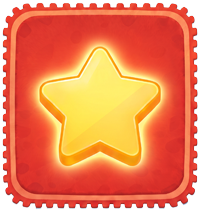
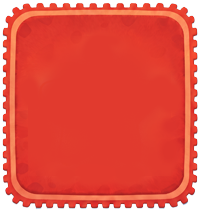
Put a decorative star on the door and wait for fly-to-HUD before the overlay.
The door uses a new sprite plus an idle star that flies into a third HUD slot on win. Result UI waits until pickup FX finishes.

diff --git a/src/game/iceGame.ts b/src/game/iceGame.ts
@@ -101,6 +101,7 @@ export function startIceGame(opts: {
   let busy = false;
   let disposed = false;
   let fxGen = 0;
+  let starFxWait: Promise<void>[] = [];
   let idleRaf = 0;
   type StarIdle = {
     root: HTMLElement;
@@ -141,6 +142,7 @@ export function startIceGame(opts: {
       <div class="ice-stars" id="ice-stars" aria-hidden="true">
         <span class="hud-star" data-i="0"></span>
         <span class="hud-star" data-i="1"></span>
+        <span class="hud-star" data-i="2"></span>
       </div>
       <button type="button" class="ice-restart" id="ice-restart">重开</button>
       <button type="button" class="ice-haptic" id="haptic-tap">震</button>
@@ -319,6 +321,7 @@ export function startIceGame(opts: {
 
   function paintStatic(s: IceState): void {
     fxGen += 1;
+    starFxWait = [];
     opts.stage.querySelectorAll('.ice-star-fly, .ice-star-burst').forEach((el) => el.remove());
     laid = layoutBoard(tune, s.rows, s.cols);
     applyTuneCss();
@@ -349,8 +352,12 @@ export function startIceGame(opts: {
     }
     {
       const p = tokenPos(laid, s.door);
+      const phase = ((s.door.r * 3 + s.door.c) % 7) / 7;
       parts.push(
         `<div class="ice-door" style="left:${p.x}px;top:${p.y}px;z-index:${stackZ(s.door.r, 3)}"></div>`,
+        `<div class="ice-star-glow" data-star-glow="door" style="left:${p.x}px;top:${p.y}px;z-index:${stackZ(s.door.r, 2)}"></div>`,
+        `<div class="ice-star ice-star-door" data-star="door" data-phase="${phase}" style="left:${p.x}px;top:${p.y}px;z-index:${stackZ(s.door.r, 3)}">` +
+          `<span class="ice-star-shadow"></span><span class="ice-star-sprite"></span></div>`,
       );
     }
     s.boxes.forEach((_, i) => {
@@ -473,13 +480,20 @@ export function startIceGame(opts: {
     }
   }
 
+  function starKey(at: Cell): string {
+    if (at.r === state.door.r && at.c === state.door.c) {
+      const onDoor = state.stars.some((s) => s.r === at.r && s.c === at.c);
+      if (!onDoor) return 'door';
+    }
+    return `${at.r}-${at.c}`;
+  }
+
   function hideStar(at: Cell): void {
-    const id = `${at.r}-${at.c}`;
-    board.querySelector(`[data-star="${id}"]`)?.classList.add('gone');
+    board.querySelector(`[data-star="${starKey(at)}"]`)?.classList.add('gone');
   }
 
   function glowEl(at: Cell): HTMLElement | null {
-    return board.querySelector(`[data-star-glow="${at.r}-${at.c}"]`) as HTMLElement | null;
+    return board.querySelector(`[data-star-glow="${starKey(at)}"]`) as HTMLElement | null;
   }
 
   function prefersReduceMotion(): boolean {
@@ -570,8 +584,8 @@ export function startIceGame(opts: {
     burstHudStar(hud);
   }
 
-  function collectStarFx(at: Cell, hudIndex: number): void {
-    const id = `${at.r}-${at.c}`;
+  function collectStarFx(at: Cell, hudIndex: number): Promise<void> {
+    const id = starKey(at);
     const star = board.querySelector(`[data-star="${id}"]`) as HTMLElement | null;
     const glow = glowEl(at);
     const glowScale0 = Number(glow?.dataset.scale) || 1;
@@ -581,7 +595,7 @@ export function startIceGame(opts: {
       hideStar(at);
       glow?.classList.add('gone');
       lightHudStar(hudIndex);
-      return;
+      return Promise.resolve();
     }
 
     const sprite = (star.querySelector('.ice-star-sprite') as HTMLElement | null) ?? star;
@@ -638,9 +652,16 @@ export function startIceGame(opts: {
 
     place(from.x, from.y, 1, 1, 0, 1, 0);
 
+    return new Promise((resolve) => {
+    const done = () => {
+      fly.remove();
+      lightHudStar(hudIndex);
+      resolve();
+    };
     const tick = (now: number) => {
       if (disposed || gen !== fxGen) {
         fly.remove();
+        resolve();
         return;
       }
       const elapsed = now - t0;
@@ -719,10 +740,10 @@ export function startIceGame(opts: {
         requestAnimationFrame(tick);
         return;
       }
-      fly.remove();
-      lightHudStar(hudIndex);
+      done();
     };
     requestAnimationFrame(tick);
+    });
   }
 
   function applyTuneCss(): void {
@@ -942,7 +963,7 @@ export function startIceGame(opts: {
       }
       const here = result.playerPath[i]!;
       if (picked[pi] && picked[pi]!.r === here.r && picked[pi]!.c === here.c) {
-        collectStarFx(picked[pi]!, state.collected + pi);
+        starFxWait.push(collectStarFx(picked[pi]!, state.collected + pi));
         pi += 1;
       }
       await sleep(stepMs);
@@ -972,6 +993,12 @@ export function startIceGame(opts: {
     placeTokens(state);
 
     if (state.won) {
+      starFxWait.push(collectStarFx(state.door, 2));
+      await Promise.all(starFxWait);
+      starFxWait = [];
+      if (disposed) return;
+      await sleep(prefersReduceMotion() ? 0 : 280);
+      if (disposed) return;
       const n = ratingStars(state);
       const last = levelIndex >= LEVELS.length - 1;
       overKicker.textContent = last ? '全部通关' : `第 ${LEVELS[levelIndex]!.id} 关`;

diff --git a/docs/YOU-MOTION.md b/docs/YOU-MOTION.md
@@ -96,9 +96,9 @@ Juice **不改模拟**：格点先停，再播表现。`prefers-reduced-motion: 
 
 ## 7. 领星
 
-未吃到：钉在自己格，待机只在格内上下浮。
+未吃到：钉在自己格，待机只在格内上下浮。终点格另有一颗装饰星（含投影与泛光），同样待机浮，进门不收集。
 
-吃到：从**自身格子**正上浮 **100px**（此高度仅作度量，不飞角色头），蹲 50px，再飞 HUD（280ms，缩小+透明）。实现常量：`starPickup.ts`。
+吃到：从**自身格子**正上浮 **100px**（此高度仅作度量，不飞角色头），蹲 50px，再飞 HUD（280ms，缩小+透明）。HUD 三槽：两颗收集星 + 进门飞第三颗。结算层等**飞星结束**再弹出。实现常量：`starPickup.ts`。
 
 ---
 
